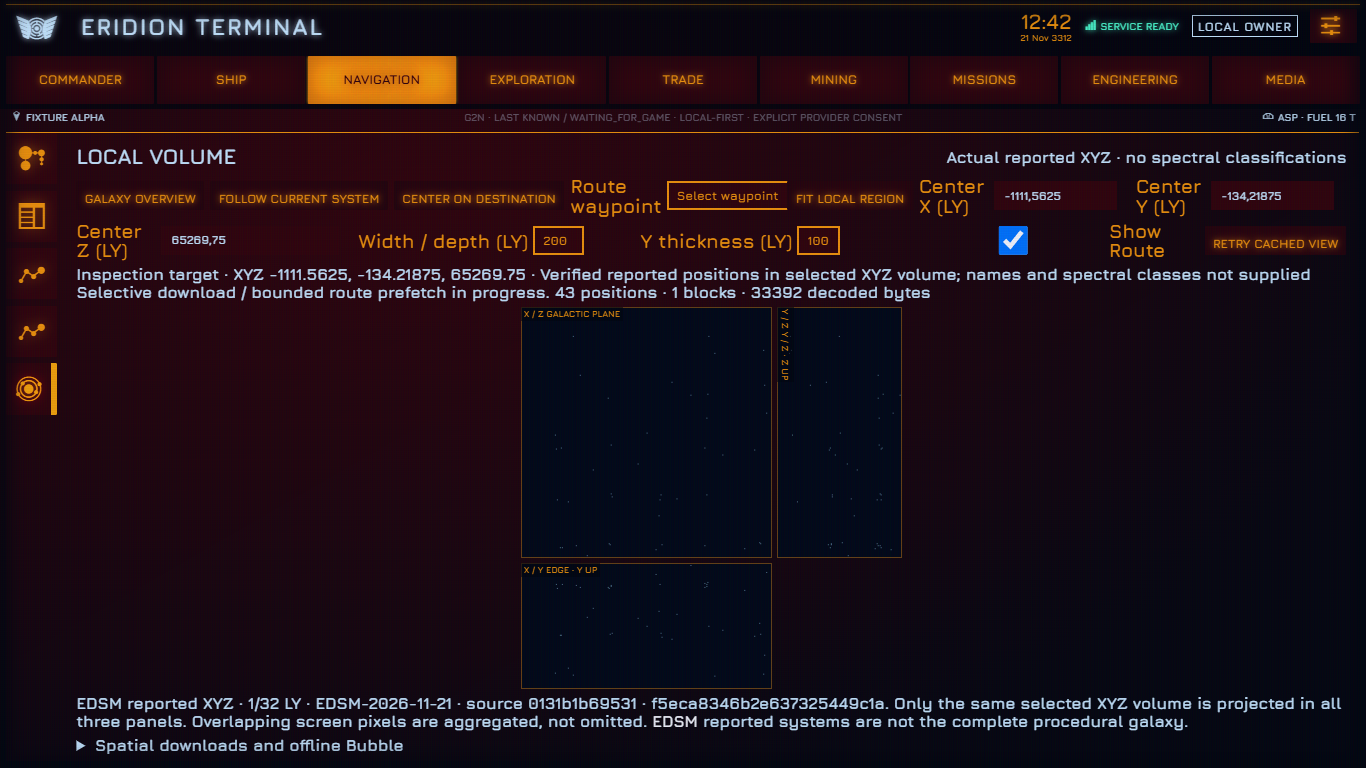
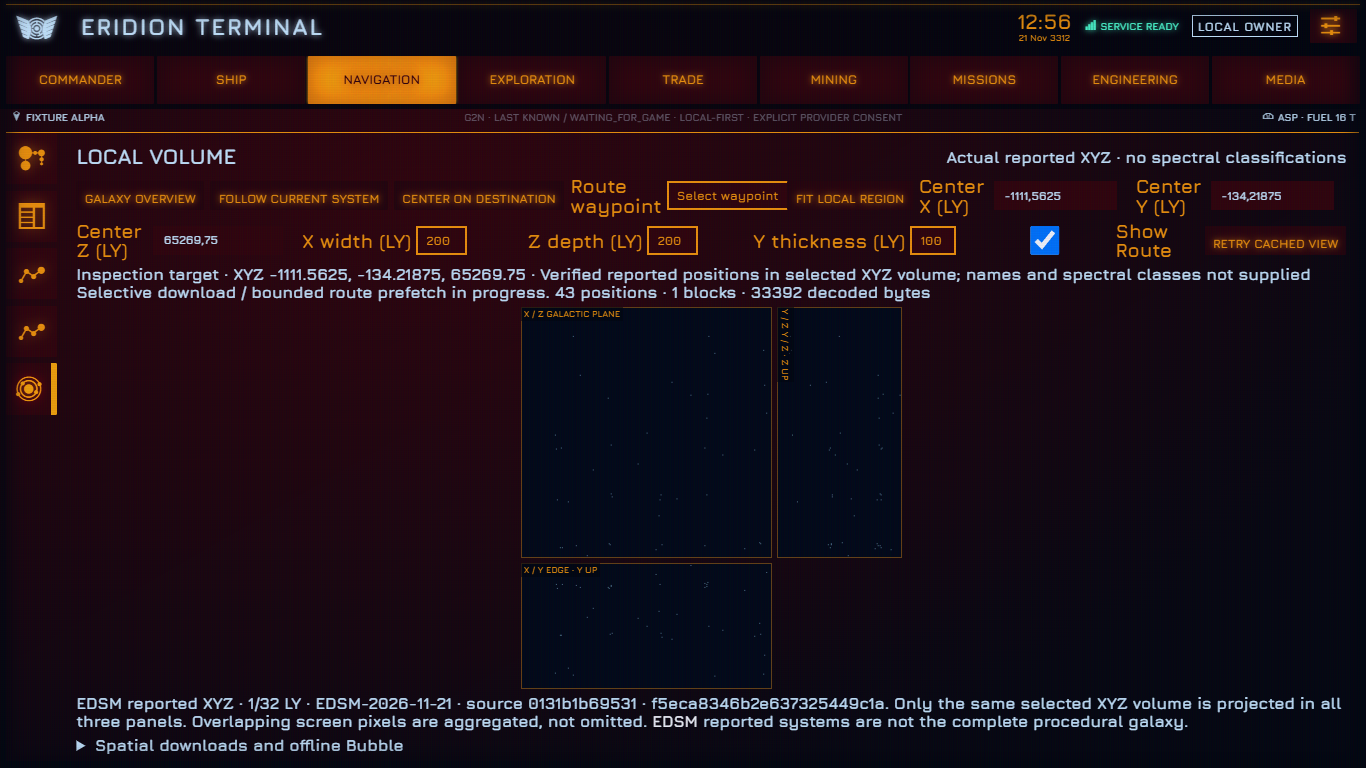
Preserve selected XYZ bounds across hybrid map modes
Independent X/Z spans retain rectangular inspection scale and equal-LY marker geometry. Adds asymmetric transition regressions and refreshes signed-data evidence.
Local checkpoint 2ad20dc060c6ee20a1d2a9cd7d1c2ebeeb28c38f; identical tree.

Changed region(s): [[0.2152, 0.2812, 0.8609, 0.3438], [0.7379, 0.0, 0.7994, 0.0625], [0.123, 0.2812, 0.1537, 0.3125]]

diff --git a/src/client/components/go-spatial.js b/src/client/components/go-spatial.js
@@ -2,7 +2,7 @@ import { useEffect, useRef, useState } from 'react'
 import { project } from '../lib/go-display-controller'
 // Exact XYZ semantics: frozen G3A spatial.py/local_view.py, GPL-3.0,
 // 5d1cbf1aee7a707259000e57ea963175f7cd4f3b. Positions are not spectral classes.
-export function spatialFrame (center, span, thickness) { return Object.fromEntries('xyz'.split('').map((a, i) => [a, [Math.max(-1e6, center[i] - (i === 1 ? thickness : span) / 2), Math.min(1e6, center[i] + (i === 1 ? thickness : span) / 2)]])) }
+export function spatialFrame (center, span, thickness, depth = span) { return Object.fromEntries('xyz'.split('').map((a, i) => [a, [Math.max(-1e6, center[i] - [span, thickness, depth][i] / 2), Math.min(1e6, center[i] + [span, thickness, depth][i] / 2)]])) }
 export function spatialPixel (point, axes, frame, w, h) {
   if (!point?.every((p, i) => Number.isFinite(p) && p >= frame['xyz'[i]][0] && p < frame['xyz'[i]][1])) return null
   const p = project(point, axes, frame)
@@ -37,12 +37,13 @@ export function LocalVolume ({ Projection, context, route, sendEvent, role, init
   const current = context?.current; const known = context?.points || []; const destination = known.find(p => p.name === route?.destinationSystem)
   const hops = (route?.hops || []).map(p => known.find(k => k.name === p.name)).filter(p => coordinates(p))
   const [target, setTarget] = useState(initialFrame ? ['x', 'y', 'z'].map(a => (initialFrame[a][0] + initialFrame[a][1]) / 2) : null)
-  const [span, setSpan] = useState(initialFrame ? Math.min(400, Math.max(10, initialFrame.x[1] - initialFrame.x[0])) : 200); const [thickness, setThickness] = useState(initialFrame ? Math.min(100, Math.min(400, Math.max(10, initialFrame.x[1] - initialFrame.x[0])) / 2) : 100)
-  const area = useRef(null); const [size, setSize] = useState(320)
-  useEffect(() => { const measure = () => { if (area.current) setSize(Math.max(180, Math.min(area.current.clientWidth, area.current.clientHeight))) }; const observer = new window.ResizeObserver(measure); if (area.current) observer.observe(area.current); measure(); return () => observer.disconnect() }, [])
+  const [span, setSpan] = useState(initialFrame ? initialFrame.x[1] - initialFrame.x[0] : 200); const [depth, setDepth] = useState(initialFrame ? initialFrame.z[1] - initialFrame.z[0] : 200); const [thickness, setThickness] = useState(initialFrame ? initialFrame.y[1] - initialFrame.y[0] : 100)
+  const area = useRef(null); const [size, setSize] = useState([320, 320])
+  useEffect(() => { const measure = () => { if (area.current) { const w = Math.max(180, area.current.clientWidth); const h = Math.max(180, area.current.clientHeight); setSize(old => old[0] === w && old[1] === h ? old : [w, h]) } }; const observer = new window.ResizeObserver(measure); if (area.current) observer.observe(area.current); measure(); return () => observer.disconnect() }, [])
   const [showRoute, setShowRoute] = useState(true); const [value, setValue] = useState(null); const [density, setDensity] = useState(null); const [refresh, setRefresh] = useState(0); const [waypoint, setWaypoint] = useState(''); const [error, setError] = useState('')
   useEffect(() => { const refresh = () => setRefresh(v => v + 1); window.addEventListener('socketEvent_goSpatialChanged', refresh); window.addEventListener('eridion-spatial-changed', refresh); return () => { window.removeEventListener('socketEvent_goSpatialChanged', refresh); window.removeEventListener('eridion-spatial-changed', refresh) } }, [])
-  const center = target || coordinates(current); const frame = spatialFrame(center || [0, 0, 0], span, thickness)
+  const center = target || coordinates(current); const frame = spatialFrame(center || [0, 0, 0], span, thickness, depth)
+  const scale = Math.min((size[0] - 6) / (span + thickness), (size[1] - 6) / (depth + thickness))
   const q = { low: ['x', 'y', 'z'].map(a => frame[a][0]), high: ['x', 'y', 'z'].map(a => frame[a][1]), route: (route?.hops || []).slice(Math.max(0, (route?.hops || []).findIndex(h => h.isNext))).map(h => known.find(p => p.name === h.name)).filter(p => coordinates(p)).slice(0, 5).map(coordinates), ...(target ? { target } : {}) }; const key = JSON.stringify(q)
   useEffect(() => {
     let active = true; let timer
@@ -54,7 +55,7 @@ export function LocalVolume ({ Projection, context, route, sendEvent, role, init
   const inVolume = p => coordinates(p)?.every((v, i) => v >= q.low[i] && v < q.high[i])
   const verified = value?.key === key && value.complete; const points = verified ? value.points : null
   const onPan = (axes, dx, dy) => { if (Math.abs(dx) + Math.abs(dy) < 0.01) return; const p = [...(center || [0, 0, 0])]; p['xyz'.indexOf(axes[0])] -= dx * (frame[axes[0]][1] - frame[axes[0]][0]); p['xyz'.indexOf(axes[1])] += dy * (frame[axes[1]][1] - frame[axes[1]][0]); setTarget(p.map(x => Math.max(-999000, Math.min(999000, x)))) }
-  return <section className='go-page go-galaxy go-local-volume' aria-label='Local spatial volume'><div className='go-page__heading'><h2>Local Volume</h2><span>Actual reported XYZ · no spectral classifications</span></div><div className='go-toolbar'><button onClick={() => onOverview(frame)}>Galaxy Overview</button><button disabled={!coordinates(current)} onClick={() => setTarget(null)}>Follow current system</button><button disabled={!coordinates(destination)} onClick={() => setTarget(coordinates(destination))}>Center on destination</button><label>Route waypoint <select aria-label='Local route waypoint' value={waypoint} onChange={e => { setWaypoint(e.target.value); if (e.target.value !== '') setTarget(coordinates(hops[Number(e.target.value)])) }}><option value=''>Select waypoint</option>{hops.map((p, i) => <option key={i} value={i}>{p.name}</option>)}</select></label><button onClick={() => { setSpan(200); setThickness(100) }}>Fit Local Region</button>{['X', 'Y', 'Z'].map((a, i) => <label key={a}>Center {a} (LY)<input aria-label={'Local center ' + a} type='number' step='0.03125' min='-999000' max='999000' value={(center || [0, 0, 0])[i]} onChange={e => { const v = Number(e.target.value); if (Number.isFinite(v) && Math.abs(v) <= 999000) { const next = [...(center || [0, 0, 0])]; next[i] = v; setTarget(next) } }} /></label>)}<label>Width / depth (LY) <select aria-label='Local inspection width' value={span} onChange={e => { const n = Number(e.target.value); setSpan(n); setThickness(t => Math.min(t, n / 2)) }}>{[...new Set([10, 40, 100, 200, 400, 800, 1600, span])].sort((a, b) => a - b).map(n => <option key={n}>{n}</option>)}</select></label><label>Y thickness (LY) <select aria-label='Local vertical thickness' value={thickness} onChange={e => setThickness(Number(e.target.value))}>{[1, 2, 5, 10, 20, 50, 100, 200, 400].filter(n => n <= span / 2).map(n => <option key={n}>{n}</option>)}</select></label><label><input type='checkbox' checked={showRoute} onChange={e => setShowRoute(e.target.checked)} />Show Route</label><button onClick={async () => { if (role === 'owner') await sendEvent('retryGoSpatial'); setRefresh(v => v + 1) }}>Retry cached view</button></div><p role='status'>{!center ? 'Current coordinates unknown; inspecting Sol until a verified player position is available. ' : ''}{target ? 'Inspection target' : 'Following player'} · XYZ {(center || [0, 0, 0]).join(', ')} · {value?.key === key ? value.notice : 'Loading selected XYZ volume…'} {value?.pending ? 'Selective download / bounded route prefetch in progress.' : ''} {verified ? `${value.points.length.toLocaleString()} positions · ${value.blocks} blocks · ${value.decodedBytes} decoded bytes` : 'Density fallback, full line of sight; not a depth-filtered star census.'}</p>{error && <p role='alert'>{error}</p>}<div ref={area} className='go-galaxy-area'><div className='go-galaxy-projections' style={{ width: size, height: size, gridTemplateColumns: 'minmax(0,1fr) minmax(0,' + (thickness / span) + 'fr)', gridTemplateRows: 'minmax(0,1fr) minmax(0,' + (thickness / span) + 'fr)' }}>{['xz', 'xy', 'yz'].map(axes => <Projection key={axes} localGeometry axes={axes} frame={frame} spatial={points} atlas={verified ? null : density} current={inVolume(current) ? current : null} destination={inVolume(destination) ? destination : null} route={hops.filter(inVolume)} routeSegments={spatialSegments(hops, frame)} showRoute={showRoute} onPan={onPan} onSelect={p => setTarget(coordinates(p))} />)}</div></div><p>{value?.source} · {value?.release || 'No verified release'}. Only the same selected XYZ volume is projected in all three panels. Overlapping screen pixels are aggregated, not omitted. <a href='https://www.edsm.net/' target='_blank' rel='noreferrer'>EDSM</a> reported systems are not the complete procedural galaxy.</p>{role === 'owner' && <details><summary>Spatial downloads and offline Bubble</summary><SpatialSettings role={role} sendEvent={sendEvent} onChange={() => setRefresh(v => v + 1)} /></details>}</section>
+  return <section className='go-page go-galaxy go-local-volume' aria-label='Local spatial volume'><div className='go-page__heading'><h2>Local Volume</h2><span>Actual reported XYZ · no spectral classifications</span></div><div className='go-toolbar'><button onClick={() => onOverview(frame)}>Galaxy Overview</button><button disabled={!coordinates(current)} onClick={() => setTarget(null)}>Follow current system</button><button disabled={!coordinates(destination)} onClick={() => setTarget(coordinates(destination))}>Center on destination</button><label>Route waypoint <select aria-label='Local route waypoint' value={waypoint} onChange={e => { setWaypoint(e.target.value); if (e.target.value !== '') setTarget(coordinates(hops[Number(e.target.value)])) }}><option value=''>Select waypoint</option>{hops.map((p, i) => <option key={i} value={i}>{p.name}</option>)}</select></label><button onClick={() => { setSpan(200); setDepth(200); setThickness(100) }}>Fit Local Region</button>{['X', 'Y', 'Z'].map((a, i) => <label key={a}>Center {a} (LY)<input aria-label={'Local center ' + a} type='number' step='0.03125' min='-999000' max='999000' value={(center || [0, 0, 0])[i]} onChange={e => { const v = Number(e.target.value); if (Number.isFinite(v) && Math.abs(v) <= 999000) { const next = [...(center || [0, 0, 0])]; next[i] = v; setTarget(next) } }} /></label>)}<label>X width (LY) <select aria-label='Local inspection width' value={span} onChange={e => { const n = Number(e.target.value); setSpan(n) }}>{[...new Set([10, 40, 100, 200, 400, 800, 1600, span])].sort((a, b) => a - b).map(n => <option key={n}>{n}</option>)}</select></label><label>Z depth (LY) <select aria-label='Local inspection depth' value={depth} onChange={e => setDepth(Number(e.target.value))}>{[...new Set([10, 40, 100, 200, 400, 800, 1600, depth])].sort((a, b) => a - b).map(n => <option key={n}>{n}</option>)}</select></label><label>Y thickness (LY) <select aria-label='Local vertical thickness' value={thickness} onChange={e => setThickness(Number(e.target.value))}>{[...new Set([1, 2, 5, 10, 20, 50, 100, 200, 400, thickness])].sort((a, b) => a - b).map(n => <option key={n}>{n}</option>)}</select></label><label><input type='checkbox' checked={showRoute} onChange={e => setShowRoute(e.target.checked)} />Show Route</label><button onClick={async () => { if (role === 'owner') await sendEvent('retryGoSpatial'); setRefresh(v => v + 1) }}>Retry cached view</button></div><p role='status'>{!center ? 'Current coordinates unknown; inspecting Sol until a verified player position is available. ' : ''}{target ? 'Inspection target' : 'Following player'} · XYZ {(center || [0, 0, 0]).join(', ')} · {value?.key === key ? value.notice : 'Loading selected XYZ volume…'} {value?.pending ? 'Selective download / bounded route prefetch in progress.' : ''} {verified ? `${value.points.length.toLocaleString()} positions · ${value.blocks} blocks · ${value.decodedBytes} decoded bytes` : 'Density fallback, full line of sight; not a depth-filtered star census.'}</p>{error && <p role='alert'>{error}</p>}<div ref={area} className='go-galaxy-area'><div className='go-galaxy-projections' style={{ width: scale * (span + thickness) + 6, height: scale * (depth + thickness) + 6, gridTemplateColumns: 'minmax(0,' + span + 'fr) minmax(0,' + thickness + 'fr)', gridTemplateRows: 'minmax(0,' + depth + 'fr) minmax(0,' + thickness + 'fr)' }}>{['xz', 'xy', 'yz'].map(axes => <Projection key={axes} localGeometry axes={axes} frame={frame} spatial={points} atlas={verified ? null : density} current={inVolume(current) ? current : null} destination={inVolume(destination) ? destination : null} route={hops.filter(inVolume)} routeSegments={spatialSegments(hops, frame)} showRoute={showRoute} onPan={onPan} onSelect={p => setTarget(coordinates(p))} />)}</div></div><p>{value?.source} · {value?.release || 'No verified release'}. Only the same selected XYZ volume is projected in all three panels. Overlapping screen pixels are aggregated, not omitted. <a href='https://www.edsm.net/' target='_blank' rel='noreferrer'>EDSM</a> reported systems are not the complete procedural galaxy.</p>{role === 'owner' && <details><summary>Spatial downloads and offline Bubble</summary><SpatialSettings role={role} sendEvent={sendEvent} onChange={() => setRefresh(v => v + 1)} /></details>}</section>
 }
 const mib = n => `${((n || 0) / 1048576).toFixed(2)} MiB`
 export function SpatialSettings ({ role, sendEvent, onChange }) {

diff --git a/src/client/components/go-galaxy.js b/src/client/components/go-galaxy.js
@@ -13,8 +13,8 @@ export function zoomFrame (frame, factor) { return Object.fromEntries(Object.ent
 export function panFrame (frame, axes, dx, dy) { const out = { ...frame }; for (const [axis, fraction] of [[axes[0], -dx], [axes[1], dy]]) { const [a, b] = frame[axis]; out[axis] = [a + (b - a) * fraction, b + (b - a) * fraction] } return out }
 export function Projection ({ axes, current, destination, searched, route = [], onSelect, frame, onPan, layers = [], atlas, showRoute = true, pixels = 320, pixelHeight, spatial = null, routeSegments = null, localGeometry = false }) {
   const drag = useRef(null)
-  const height = axes === 'xy' ? localGeometry ? 100 * (frame.y[1] - frame.y[0]) / (frame.x[1] - frame.x[0]) : 8 : 100
-  const width = axes === 'yz' ? localGeometry ? 100 * (frame.y[1] - frame.y[0]) / (frame.z[1] - frame.z[0]) : 8 : 100
+  const height = localGeometry ? 100 * (frame[axes === 'xy' ? 'y' : 'z'][1] - frame[axes === 'xy' ? 'y' : 'z'][0]) / (frame.x[1] - frame.x[0]) : axes === 'xy' ? 8 : 100
+  const width = axes === 'yz' ? localGeometry ? 100 * (frame.y[1] - frame.y[0]) / (frame.x[1] - frame.x[0]) : 8 : 100
   const position = p => project(p?.coordinates, axes, frame)
   const points = route.map(position).filter(Boolean).map(p => `${p.x * width},${p.y * height}`).join(' ')
   return <figure className={`go-galaxy-plane go-galaxy-${axes}`}><figcaption>{axes[0].toUpperCase()} / {axes[1].toUpperCase()} {axes === 'xz' ? 'GALACTIC PLANE' : axes === 'yz' ? 'Y / Z · Z UP' : 'EDGE · Y UP'}</figcaption><svg data-projection={axes} viewBox={`0 0 ${width} ${height}`} preserveAspectRatio='none' role='img' aria-label={`Galaxy ${axes.toUpperCase()} projection`} onPointerDown={e => { drag.current = { x: e.clientX, y: e.clientY }; e.currentTarget.setPointerCapture?.(e.pointerId) }} onPointerUp={e => { if (drag.current) { const r = e.currentTarget.getBoundingClientRect(); onPan(axes, (e.clientX - drag.current.x) / r.width, (e.clientY - drag.current.y) / r.height); drag.current = null } }}>{spatial ? <SpatialCanvas points={spatial} axes={axes} frame={frame} width={width} height={height} /> : <AtlasTiles atlas={atlas} axes={axes} frame={frame} width={width} height={height} pixels={pixels} pixelHeight={pixelHeight} />}{showRoute && <g className='go-galaxy-route' pointerEvents='none'>{(routeSegments ? routeSegments.map(pair => pair.map(coordinates => position({ coordinates })).map(p => `${p.x * width},${p.y * height}`).join(' ')) : [points]).map((segment, i) => <g key={i}><polyline points={segment} fill='none' stroke='#000' strokeOpacity='.45' strokeWidth='2.8' vectorEffect='non-scaling-stroke' /><polyline points={segment} fill='none' stroke='#9fb8c9' strokeOpacity='.65' strokeWidth='1.1' vectorEffect='non-scaling-stroke' /></g>)}{route.slice(0, 256).map((point, i) => { const p = position(point); return p && <circle key={i} data-marker='waypoint' data-axes={axes} data-position={`${p.x},${p.y}`} cx={p.x * width} cy={p.y * height} r='.22' fill='none' stroke='#b8cbd5' strokeWidth='.7' vectorEffect='non-scaling-stroke' /> })}</g>}{layers.map((point, i) => { const p = position(point); return p && <g key={i} role='button' tabIndex={0} aria-label={point.name} onClick={() => onSelect(point)} onKeyDown={e => { if (e.key === 'Enter') onSelect(point) }}><circle cx={p.x * width} cy={p.y * height} r={axes === 'xz' ? 0.45 : 0.4} fill={point.category === 'nebula' ? '#b988ff' : '#55dfff'} /><title>{point.name} · {point.source}</title></g> })}{[['destination', destination, '#ffc631'], ['searched', searched, '#55e5ff'], ['current', current, '#39ff69']].map(([kind, point, color]) => { const p = position(point); return p && <g key={kind} data-marker={kind} data-axes={axes} data-position={`${p.x},${p.y}`} role='button' tabIndex={0} aria-label={`${kind}: ${point.name}`} onClick={() => onSelect?.(point)} onKeyDown={e => { if (e.key === 'Enter') onSelect?.(point) }}><circle cx={p.x * width} cy={p.y * height} r={kind === 'current' ? 1.1 : 0.8} fill={color} stroke='#000' strokeWidth='.2' /><title>{point.name} · {point.source}</title></g> })}</svg></figure>

diff --git a/tests/service/g3c-spatial.test.js b/tests/service/g3c-spatial.test.js
@@ -6,6 +6,7 @@ test('local volume uses exact XYZ, synchronized projections and bounded drawing'
   try {
     const f = h.exports.spatialFrame([0, 0, 0], 200, 100)
     assert.deepEqual(f, { x: [-100, 100], y: [-50, 50], z: [-100, 100] })
+    assert.deepEqual(h.exports.spatialFrame([20, 30, 40], 400, 50, 100), { x: [-180, 220], y: [5, 55], z: [-10, 90] })
     const p = [-0.03125, -0.0625, -0.125]
     assert.deepEqual(h.exports.spatialPixel(p, 'xz', f, 200, 200), [99, 100])
     assert.deepEqual(h.exports.spatialPixel(p, 'xy', f, 200, 100), [99, 50])
@@ -21,5 +22,7 @@ test('local side panels preserve world aspect and round navigation markers', () 
   try {
     Object.assign(h.props, { axes: 'yz', localGeometry: true, frame: { x: [-100, 100], y: [-50, 50], z: [-100, 100] } })
     assert.match(h.html(), /viewBox="0 0 50 100"/)
+    h.props.frame.x = [-200, 200]
+    assert.match(h.html(), /viewBox="0 0 25 50"/)
   } finally { h.unmount() }
 })

diff --git a/docs/handoffs/g3c-hybrid-spatial-galaxy.md b/docs/handoffs/g3c-hybrid-spatial-galaxy.md
@@ -50,9 +50,9 @@ Both real volumes are 200 x 100 x 200 LY. Sol: [-100,-50,-100] to [100,50,100], 
 
 ## Performance evidence
 
-Public HTTPS direct Go test installed manifest and Bubble in 832 ms; first Sol decode/query took 14.93 ms (single samples). Browser/WebSocket round trips including 9,238-position JSON transfer measured 46.72 ms at Sol and 5.70 ms for 43 positions at Beagle Point. Regional cache after this route was 20,349 bytes; permanent Bubble 3,144,891 bytes. Total spatial received bytes 7,754,923 include manifest, Bubble, signatures and sparse assets. Re-reading offline Sol returned all 9,238 positions without increasing downloaded bytes.
+Public HTTPS direct Go test installed manifest and Bubble in 832 ms; first Sol decode/query took 14.93 ms (single samples). Browser/WebSocket round trips including 9,238-position JSON transfer measured 47.78 ms at Sol and 6.19 ms for 43 positions at Beagle Point. Regional cache after this route was 20,349 bytes; permanent Bubble 3,144,891 bytes. Total spatial received bytes 7,754,923 include manifest, Bubble, signatures and sparse assets. Re-reading offline Sol returned all 9,238 positions without increasing downloaded bytes.
 
-Windows Chromium 1.5-second idle samples, single run and sequential scene order: density baseline renderer heap 8,731,424 bytes / main-thread busy 1.474% / synthetic Go host RSS 55,459,840 bytes; local Sol 6,315,344 / 1.614% / 51,499,008; local sparse 6,638,804 / 1.953% / 53,514,240. Synthetic backend one-core CPU sample was 1.704% at Sol, 0% in the other short samples (sampling resolution, not a zero-CPU claim). This measures the fixture's real Go service and Chromium, not total Wails RAM/CPU. Cache history and GC affect RSS; no statistical speedup or causal resource reduction is claimed.
+Windows Chromium 1.5-second scene samples, single run and sequential order: density baseline renderer heap 6,395,324 bytes / main-thread busy 1.482% / synthetic Go host RSS 57,135,104 bytes; local Sol 8,059,596 / 1.506% / 50,946,048; local sparse 7,994,924 / 1.624% / 54,349,824. Synthetic backend one-core CPU samples were 5.09%, 5.97% and 7.66%, respectively. These short samples can include route-prefetch/notification settling and are not established steady-state idle or throughput measurements. This measures the fixture's real Go service and Chromium, not total Wails RAM/CPU. Cache history and GC affect RSS; no statistical speedup or causal resource reduction is claimed.
 
 ## Acceptance checklist and limitations
 
@@ -63,3 +63,5 @@ Windows Chromium 1.5-second idle samples, single run and sequential scene order:
 5. Exercise offline/metered pause, a cache miss and an over-dense volume: expect an honest labeled fallback, never empty-space claims. Test rollback/removal using a disposable profile first.
 
 Boundary-straddling Bubble volumes can need regional cache or a smaller selection. Provider catalogue incompleteness, absent names/classes and 80k-volume limits are intentional. Real network interruptions, actual gameplay and physical laptop checks remain manual. No live Frontier sign-in, production uploads, legacy replacement, merge, release or deployment was performed.
+
+Transition regression: explicit Overview XYZ bounds now carry into Local Volume without silently clamping or squaring X/Z. Independent X width, Z depth and Y thickness retain rectangular scale; oversized selections produce the existing bounded fallback. Equal light-year geometry and round markers are tested for asymmetric volumes and the browser tests exercise a 400 x 50 x 100 LY round trip.

diff --git a/docs/testing/g3c-hybrid-spatial-preview.md b/docs/testing/g3c-hybrid-spatial-preview.md
@@ -11,3 +11,5 @@ Cached data and Bubble work offline. Bubble is read lazily from the verified ZIP
 Acceptance: test following a real jump, route replacement, destination/waypoint inspection and return to Overview. Confirm all three panels use the same XYZ box, route visibility and markers; inspect Sol and a sparse region; restart offline after Bubble install. On a paired laptop confirm cached positions update but all download/settings/removal operations remain owner-only. Real gameplay and physical-device acceptance remain manual.
 
 Reference: Galaxy Painter spatial.py/local_view.py and synthetic fixtures at 5d1cbf1aee7a707259000e57ea963175f7cd4f3b (GPL-3.0); signed G3B distribution at e3c6e40. EDSM supplies reported community positions, not a full census. No new uploads, game actions, spectral predictions, publisher or production infrastructure changes are included.
+
+Explicit Overview selections retain their XYZ bounds when switching modes. X width, Z depth and Y thickness can be adjusted independently. A too-large inherited volume is labeled over budget; choose Fit Local Region or reduce its dimensions.
